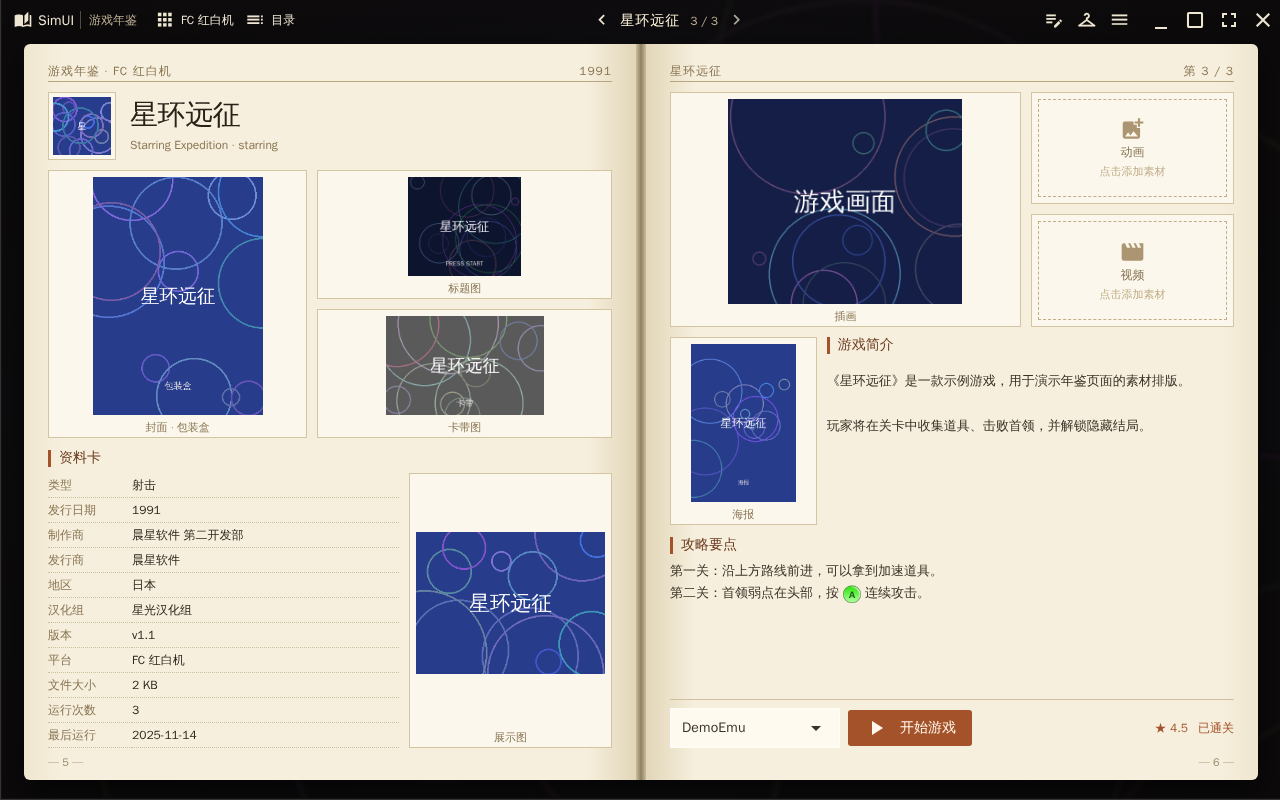
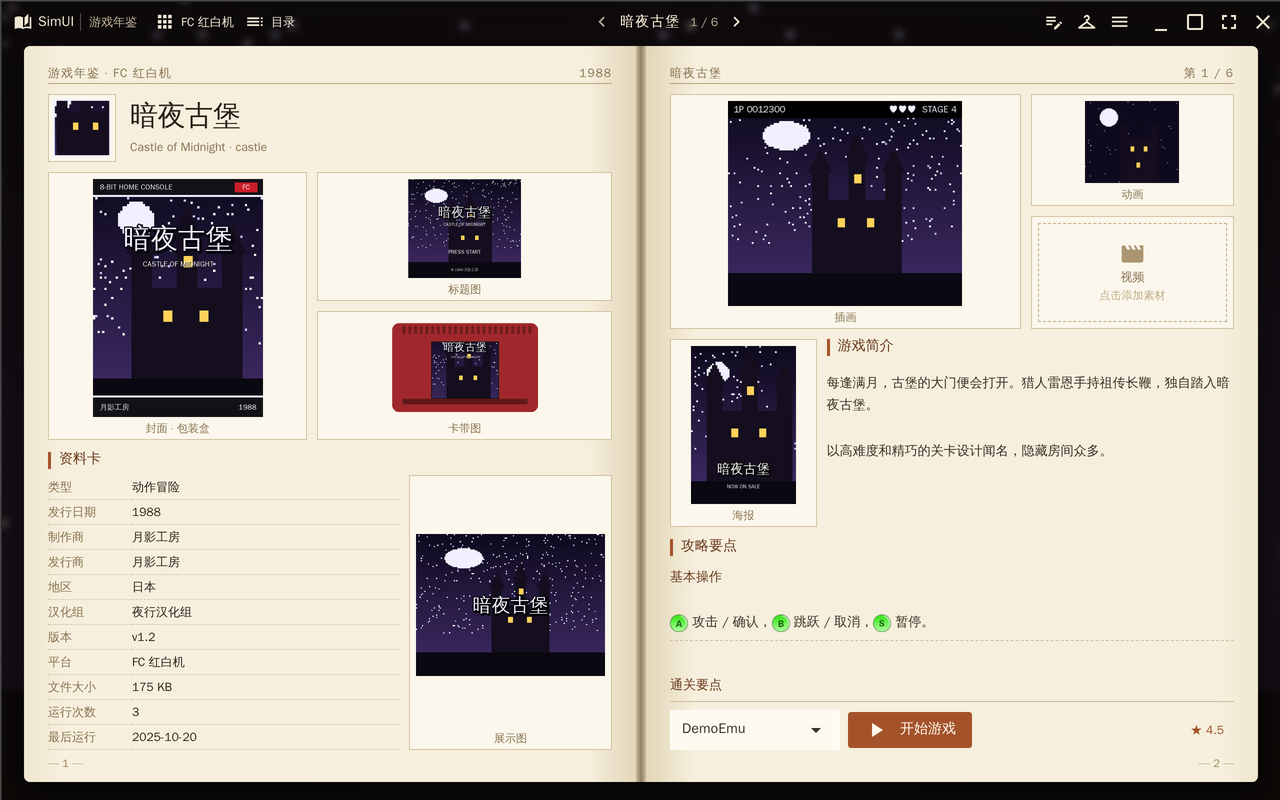
Pulsar：更新主题效果图与 README 截图
Claude-Session: https://claude.ai/code/session_01DGFbDd7NmbAu9uFSjfG3xq

diff --git a/pulsar/README.md b/pulsar/README.md
@@ -37,6 +37,8 @@
 ![](readme/3.jpg)
 
 &nbsp;
+![](readme/themes_poster.png)
+
 ## 游戏年鉴主题（Book）
 
 本仓库新增了 **Book · 年鉴** 主题，安装包默认使用。打开软件后直接显示单个游戏的跨页，像翻开一本游戏年鉴：
